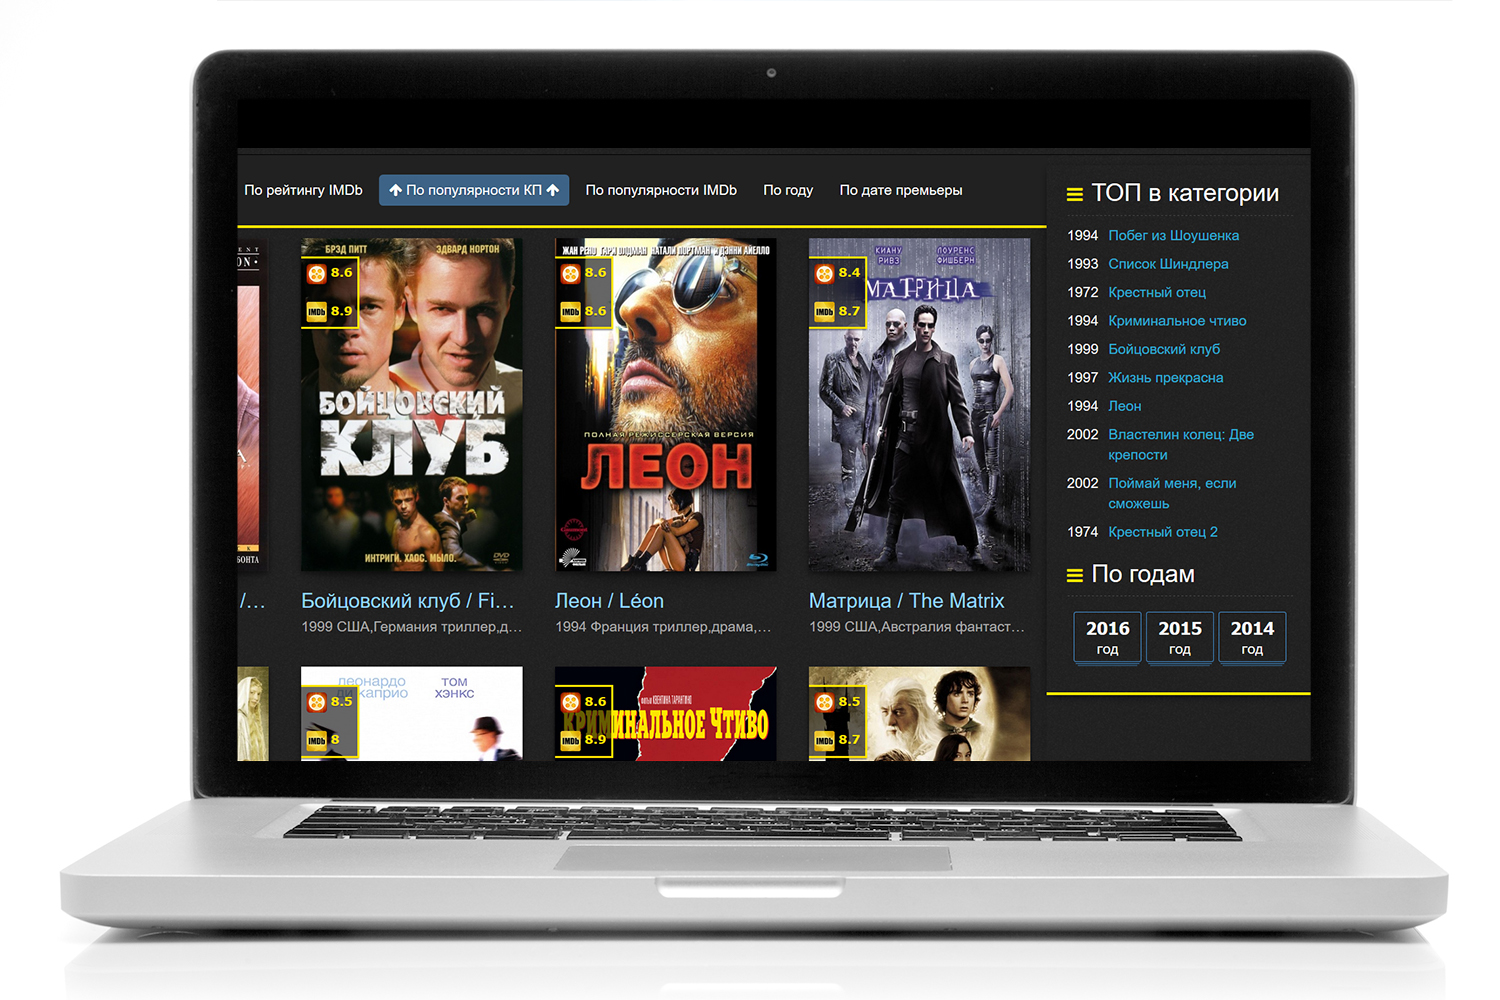
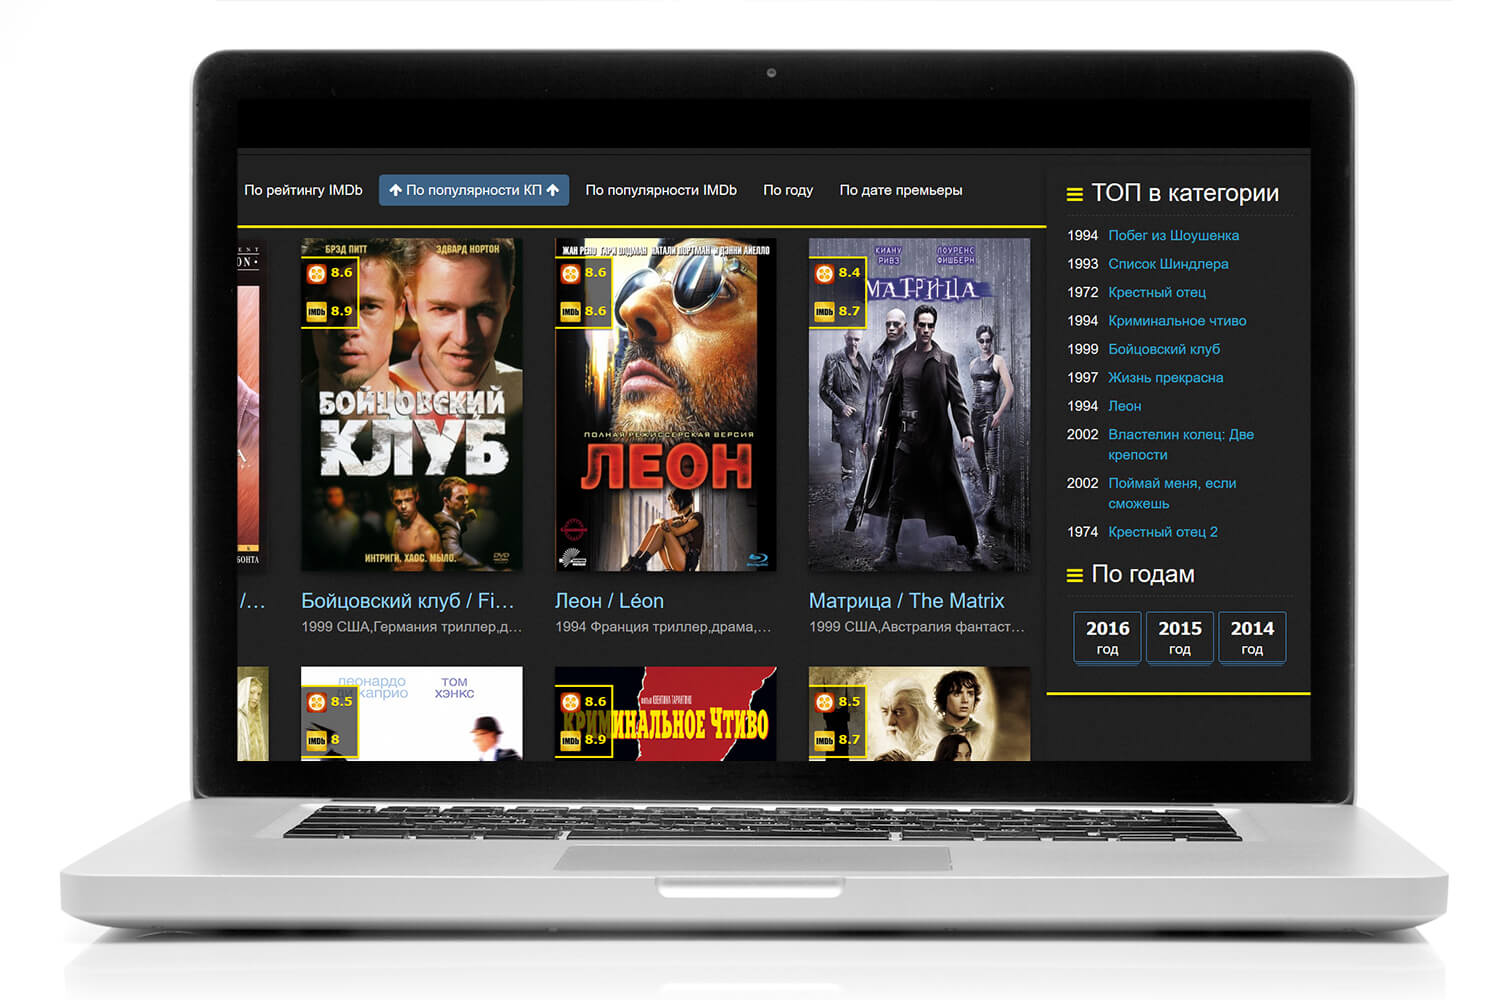
Compress image

diff --git a/README.md b/README.md
@@ -5,10 +5,14 @@
 
 ## Установка
 1. [Скачать архив](https://github.com/CinemaPress/Theme-Ted/archive/master.zip)
-2. Распаковать содержимое папки **/Theme-Ted** в папку **/themes/ted**
+2. Распаковать содержимое папки **/Theme-Ted-master** в папку **/themes/ted**
 3. Изменить название темы в админ-панели на **ted**
 
 ## Установка через установщик тем CinemaPress CMS
 ```
-~# sh theme.sh ted
+~# wget https://git.io/vVTE5 -qO theme.sh
+~# sh theme.sh [domain] ted
 ```
+###### Видео установки темы через установщик тем
+
+<a href="https://www.youtube.com/watch?v=A4HQiuEHiJw" target="_blank"><img src="https://cinemapress.org/images/admin/theme_player.png" width="600" alt="Установка темы на CinemaPress CMS"/></a>
